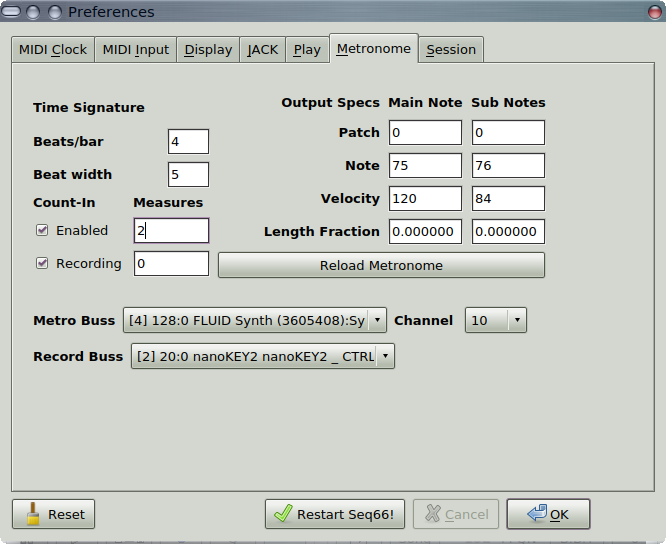
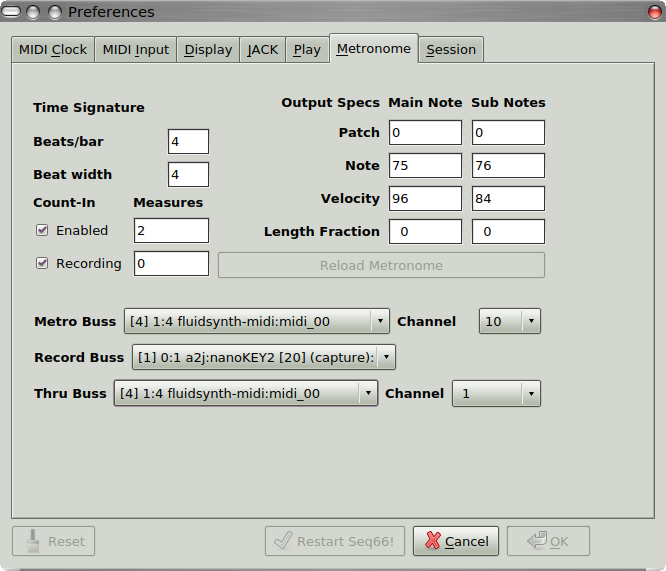
Fix for issue #54 Qt detection, doc update.

diff --git a/seq_qt5/src/qseditoptions.cpp b/seq_qt5/src/qseditoptions.cpp
@@ -24,7 +24,7 @@
  * \library       seq66 application
  * \author        Chris Ahlstrom
  * \date          2018-01-01
- * \updates       2022-08-18
+ * \updates       2022-08-22
  * \license       GNU GPLv2 or above
  *
  *      This version is located in Edit / Preferences.
@@ -739,7 +739,7 @@ qseditoptions::setup_tab_metronome ()
     );
 
     float metrofrac = rc().metro_settings().main_note_fraction();
-    QString qmetrofrac = qt(std::to_string(metrofrac));
+    QString qmetrofrac = qt(double_to_string(metrofrac, 3));
     ui->lineedit_metro_main_fraction->setText(qmetrofrac);
     connect
     (
@@ -771,7 +771,7 @@ qseditoptions::setup_tab_metronome ()
         this, SLOT(slot_metro_sub_velocity())
     );
     metrofrac = rc().metro_settings().sub_note_fraction();
-    qmetrofrac = qt(std::to_string(metrofrac));
+    qmetrofrac = qt(double_to_string(metrofrac, 3));
     ui->lineedit_metro_sub_fraction->setText(qmetrofrac);
     connect
     (
@@ -913,8 +913,6 @@ qseditoptions::setup_tab_metronome ()
      * combobox_metro_thru_buss
      */
 
-//  const clockslist & opm = output_port_map();
-//  mastermidibus * mmb = perf().master_bus();
     out = ui->combobox_metro_thru_buss;
     out->clear();
     if (not_nullptr(mmb))
@@ -975,7 +973,7 @@ qseditoptions::repopulate_channel_menu (int buss)
 
     int ch = rc().metro_settings().channel();
     if (is_null_channel(ch))
-        ch = c_midichannel_max;
+        ch = 0;
 
     ui->combobox_metro_channel->setCurrentIndex(ch);
     connect
@@ -1008,12 +1006,12 @@ qseditoptions::repopulate_thru_channel_menu (int buss)
         }
 
         QString combo_text(qt(name));
-        ui->combobox_metro_channel->insertItem(channel, combo_text);
+        ui->combobox_metro_thru_channel->insertItem(channel, combo_text);
     }
 
     int ch = rc().metro_settings().thru_channel();
     if (is_null_channel(ch))
-        ch = c_midichannel_max;
+        ch = 0;
 
     ui->combobox_metro_thru_channel->setCurrentIndex(ch);
     connect

diff --git a/doc/latex/tex/menu.tex b/doc/latex/tex/menu.tex
@@ -1234,17 +1234,29 @@
 
    \itempar{MIDI Buss}{metronome!buss}
    This value selects the output MIDI device to use to play the metronome.
+   It \textsl{must} be enabled in the \textbf{MIDI Clock} list.
 
    \itempar{Channel}{metronome!channel}
-   This value selects the channe to use to play the metronome.
+   This value selects the channel to use to play the metronome.
 
    \itempar{Record Buss}{recorder!buss}
    \index{background recorder}
    This value selects the input device to use to record events into the
    background pattern.
+   Note that this device \textsl{must} be enabled in the \textbf{MIDI Input}
+   buss list.
+
+   \itempar{MIDI Buss}{record!thru buss}
+   This value selects the output MIDI device to use to play the incoming
+   background record notes.  Otherwise they will not be heard.
+   It \textsl{must} be enabled in the \textbf{MIDI Clock} list.
+
+   \itempar{Thru Channel}{recorder!thru channel}
+   This value selects the channel to use to play the recorded notes as
+   they come in.
 
    We still have some more work to do to refine the metronome, the
-   background recorder, and their configuration.
+   background recorder, and their configuration, pending user input.
 
 \paragraph{Menu / Edit / Preferences / Session}
 \label{paragraph:menu_edit_preferences_session}

diff --git a/libseq66/src/play/metro.cpp b/libseq66/src/play/metro.cpp
@@ -369,6 +369,14 @@ recorder::initialize (performer * p)
             set_midi_channel(channel);
             if (expand || settings().expand_recording())
             {
+                /*
+                 *  The record-style is only a run-time status of a pattern,
+                 *  and here it should apply only to the background recording;
+                 *  This setting is a run-time global setting:
+                 *
+                 * usr().grid_record_style(recordstyle::expand);
+                 */
+
                 expanded_recording(true);
             }
             armed(false);
@@ -381,7 +389,7 @@ recorder::initialize (performer * p)
 bool
 recorder::uninitialize ()
 {
-    set_recording(false);
+    set_recording(false);               /* also clears expanded rec, etc.   */
 
     /*
      * Probably want the user to remember to modify these settings.

diff --git a/doc/latex/tex/pattern_editor.tex b/doc/latex/tex/pattern_editor.tex
@@ -6,7 +6,7 @@
 % \library     Documents
 % \author      Chris Ahlstrom
 % \date        2015-08-31
-% \update      2022-08-17
+% \update      2022-08-22
 % \version     $Revision$
 % \license     $XPC_GPL_LICENSE$
 %
@@ -152,7 +152,9 @@
    A feature from user \textsl{stazed} allows the pattern to expand
    indefinitely while the user inputs MIDI from a controller, via the
    \textbf{Expand} option of the \textbf{Loop Record Type}.
-   This works best in \textbf{Live} mode.
+   This works in \textbf{Live} mode or \textbf{Song} mode.
+   The pattern is not extended until events come in.
+   Thus, the pattern is only as long as the last measure when a note comes in.
 
 %  See \sectionref{subsec:pattern_editor_bottom} below.
 

diff --git a/libseq66/src/play/sequence.cpp b/libseq66/src/play/sequence.cpp
@@ -25,7 +25,7 @@
  * \library       seq66 application
  * \author        Chris Ahlstrom
  * \date          2015-07-24
- * \updates       2022-08-20
+ * \updates       2022-08-22
  * \license       GNU GPLv2 or above
  *
  *  The functionality of this class also includes handling some of the
@@ -3388,8 +3388,8 @@ sequence::stream_event (event & ev)
         }
 
         /*
-         *  ca 2022-08-19
          *  If we are in expand mode, we do not want to wrap the timestamp.
+         *  Expansion will occur only here, when an event is received.
          */
 
         if (expanded_recording())

diff --git a/README.md b/README.md
@@ -1,7 +1,7 @@
 # README for Seq66 0.99.0
 
 Chris Ahlstrom
-2015-09-10 to 2022-08-21
+2015-09-10 to 2022-08-22
 
 __Seq66__ is a MIDI sequencer and live-looper with a hardware-sampler-like
 grid-pattern interface, sets and playlists for song management, a scale and
@@ -88,6 +88,8 @@ Windows, and using a conventional source tarball.
 ## Recent Changes
 
     *   Version 0.99.0:
+        *   Issue #54. Updated the ax_have_qt_min.m4 file to detect
+            qmake-qt5, etc.
         *   Issue #78 revisited. Pattern-box sizes would become 0 and the
             progress boxes disappear. Now the 'usr' show option is boolean
             ("pattern-boxes-shown", default = true), and the sizes are kept
